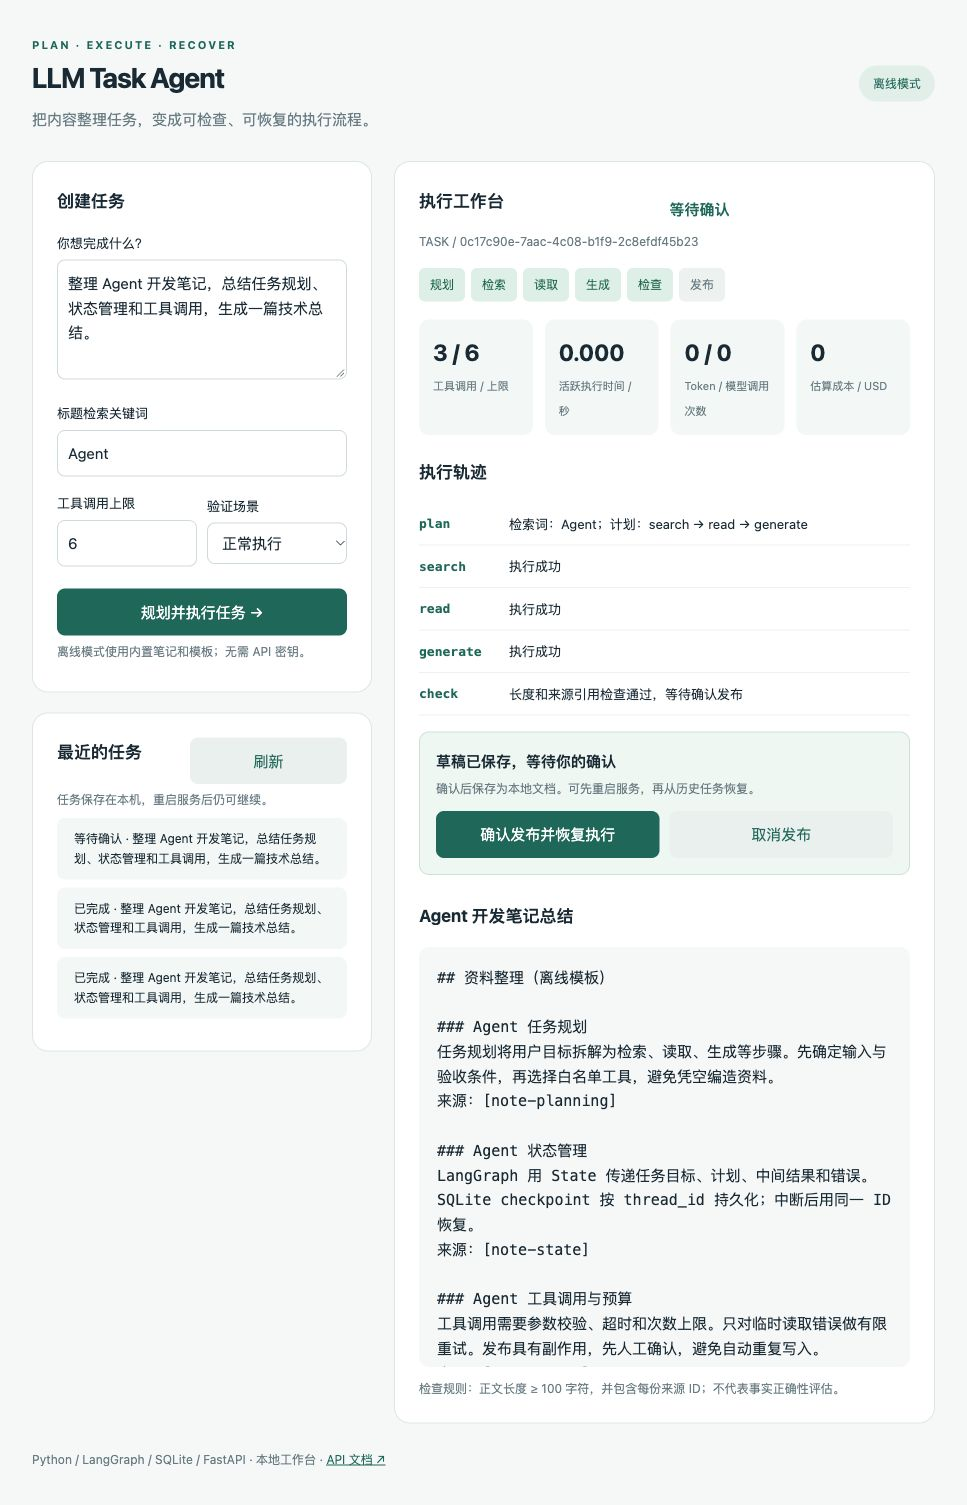
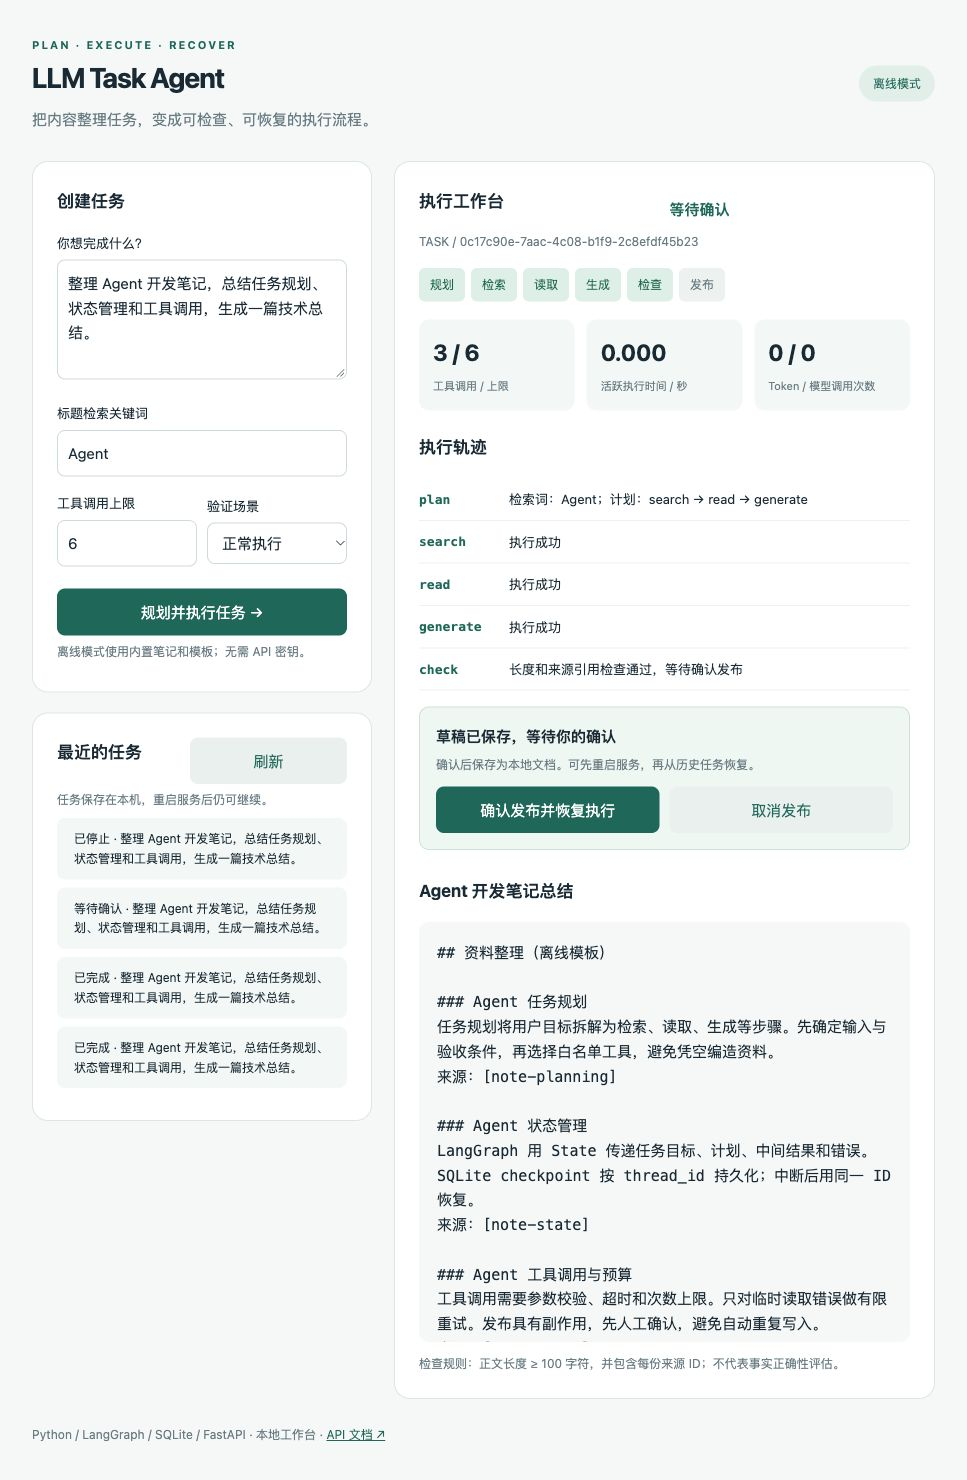
refactor: remove cost estimation and refresh workspace screenshots

diff --git a/app/static/index.html b/app/static/index.html
@@ -1,7 +1,7 @@
 <!doctype html>
 <html lang="zh-CN"><head><meta charset="utf-8"><meta name="viewport" content="width=device-width,initial-scale=1"><title>LLM Task Agent</title>
 <style>
-:root{color-scheme:light;--ink:#172b35;--muted:#677c83;--line:#dce5e6;--green:#146859}*{box-sizing:border-box}body{margin:0;background:#f5f8f7;color:var(--ink);font:15px/1.65 -apple-system,BlinkMacSystemFont,"Segoe UI",sans-serif}main{max-width:1280px;margin:auto;padding:36px 32px}header{display:flex;justify-content:space-between;align-items:center;margin-bottom:30px}h1{font-size:28px;letter-spacing:-1px;margin:0}h2{font-size:17px;margin:0 0 18px}.eyebrow{font-size:11px;letter-spacing:2px;color:var(--green);font-weight:700}p{color:var(--muted);margin:6px 0 0}.badge{padding:8px 14px;border-radius:30px;background:#e1efe9;color:var(--green);font-size:12px}.layout{display:grid;grid-template-columns:340px 1fr;gap:22px}.card{background:white;border:1px solid var(--line);border-radius:16px;padding:24px;margin-bottom:20px}.small{font-size:12px;color:var(--muted)}label{display:block;font-size:13px;margin:16px 0 6px}textarea,input,select{font:inherit;width:100%;border:1px solid #cddbdd;border-radius:8px;padding:10px;color:var(--ink);background:#fff}textarea{min-height:120px;resize:vertical}button{font:inherit;border:0;border-radius:8px;background:var(--green);color:white;padding:11px 17px;cursor:pointer}button:disabled{opacity:.5;cursor:wait}button.secondary{background:#eaf0ee;color:var(--green)}.start{width:100%;margin-top:22px}.row{display:flex;gap:10px;align-items:center}.row>*{flex:1}.metrics{display:grid;grid-template-columns:repeat(4,1fr);gap:12px;margin:18px 0 22px}.metric{padding:14px;background:#f3f7f5;border-radius:10px}.metric strong{display:block;font-size:23px}.metric span{font-size:11px;color:var(--muted)}.pipeline{display:flex;gap:6px;flex-wrap:wrap;margin:16px 0}.stage{font-size:12px;border-radius:6px;padding:7px 11px;background:#edf2f1;color:var(--muted)}.stage.done{background:#dcefe7;color:#16664d}.status{font-weight:600;color:var(--green)}.trace{padding:10px 0;border-bottom:1px solid #edf1ef;display:grid;grid-template-columns:80px 1fr;gap:10px;font-size:13px}.trace b{font-family:monospace;color:var(--green)}pre{white-space:pre-wrap;overflow-wrap:anywhere;font:14px/1.85 inherit;background:#f6f8f7;padding:18px;border-radius:10px;max-height:420px;overflow:auto;margin:12px 0}#error{color:#ac3d31;white-space:pre-wrap}.history{display:block;width:100%;text-align:left;color:var(--ink);background:#f3f7f5;font-size:12px;margin:8px 0;overflow-wrap:anywhere}.approval{background:#eef7f2;padding:16px;border:1px solid #cae3d5;border-radius:10px;margin-top:16px}.empty{text-align:center;padding:70px 20px;color:var(--muted)}a{color:var(--green)}[hidden]{display:none!important}#busy{font-size:13px;color:var(--green)}@media(max-width:850px){main{padding:22px 16px}.layout{grid-template-columns:1fr}.metrics{grid-template-columns:repeat(2,1fr)}header{align-items:flex-start;gap:10px}h1{font-size:23px}}
+:root{color-scheme:light;--ink:#172b35;--muted:#677c83;--line:#dce5e6;--green:#146859}*{box-sizing:border-box}body{margin:0;background:#f5f8f7;color:var(--ink);font:15px/1.65 -apple-system,BlinkMacSystemFont,"Segoe UI",sans-serif}main{max-width:1280px;margin:auto;padding:36px 32px}header{display:flex;justify-content:space-between;align-items:center;margin-bottom:30px}h1{font-size:28px;letter-spacing:-1px;margin:0}h2{font-size:17px;margin:0 0 18px}.eyebrow{font-size:11px;letter-spacing:2px;color:var(--green);font-weight:700}p{color:var(--muted);margin:6px 0 0}.badge{padding:8px 14px;border-radius:30px;background:#e1efe9;color:var(--green);font-size:12px}.layout{display:grid;grid-template-columns:340px 1fr;gap:22px}.card{background:white;border:1px solid var(--line);border-radius:16px;padding:24px;margin-bottom:20px}.small{font-size:12px;color:var(--muted)}label{display:block;font-size:13px;margin:16px 0 6px}textarea,input,select{font:inherit;width:100%;border:1px solid #cddbdd;border-radius:8px;padding:10px;color:var(--ink);background:#fff}textarea{min-height:120px;resize:vertical}button{font:inherit;border:0;border-radius:8px;background:var(--green);color:white;padding:11px 17px;cursor:pointer}button:disabled{opacity:.5;cursor:wait}button.secondary{background:#eaf0ee;color:var(--green)}.start{width:100%;margin-top:22px}.row{display:flex;gap:10px;align-items:center}.row>*{flex:1}.metrics{display:grid;grid-template-columns:repeat(3,1fr);gap:12px;margin:18px 0 22px}.metric{padding:14px;background:#f3f7f5;border-radius:10px}.metric strong{display:block;font-size:23px}.metric span{font-size:11px;color:var(--muted)}.pipeline{display:flex;gap:6px;flex-wrap:wrap;margin:16px 0}.stage{font-size:12px;border-radius:6px;padding:7px 11px;background:#edf2f1;color:var(--muted)}.stage.done{background:#dcefe7;color:#16664d}.status{font-weight:600;color:var(--green)}.trace{padding:10px 0;border-bottom:1px solid #edf1ef;display:grid;grid-template-columns:80px 1fr;gap:10px;font-size:13px}.trace b{font-family:monospace;color:var(--green)}pre{white-space:pre-wrap;overflow-wrap:anywhere;font:14px/1.85 inherit;background:#f6f8f7;padding:18px;border-radius:10px;max-height:420px;overflow:auto;margin:12px 0}#error{color:#ac3d31;white-space:pre-wrap}.history{display:block;width:100%;text-align:left;color:var(--ink);background:#f3f7f5;font-size:12px;margin:8px 0;overflow-wrap:anywhere}.approval{background:#eef7f2;padding:16px;border:1px solid #cae3d5;border-radius:10px;margin-top:16px}.empty{text-align:center;padding:70px 20px;color:var(--muted)}a{color:var(--green)}[hidden]{display:none!important}#busy{font-size:13px;color:var(--green)}@media(max-width:850px){main{padding:22px 16px}.layout{grid-template-columns:1fr}.metrics{grid-template-columns:repeat(2,1fr)}header{align-items:flex-start;gap:10px}h1{font-size:23px}}
 </style></head>
 <body><main>
 <header><div><div class="eyebrow">PLAN · EXECUTE · RECOVER</div><h1>LLM Task Agent</h1><p>把内容整理任务，变成可检查、可恢复的执行流程。</p></div><span class="badge" id="mode">正在连接服务…</span></header>
@@ -15,7 +15,7 @@
 <article class="card"><div class="row"><h2>执行工作台</h2><span class="status" id="status">等待任务</span></div>
 <div id="empty" class="empty">从左侧创建任务<br><span class="small">查看计划、执行轨迹和草稿，再确认发布。</span></div>
 <div id="result" hidden><div class="small" id="taskId"></div><div class="pipeline" id="pipeline"></div>
-<div class="metrics"><div class="metric"><strong id="calls">0</strong><span>工具调用 / 上限</span></div><div class="metric"><strong id="duration">0</strong><span>活跃执行时间 / 秒</span></div><div class="metric"><strong id="tokens">0</strong><span>Token / 模型调用次数</span></div><div class="metric"><strong id="cost">—</strong><span>估算成本 / USD</span></div></div>
+<div class="metrics"><div class="metric"><strong id="calls">0</strong><span>工具调用 / 上限</span></div><div class="metric"><strong id="duration">0</strong><span>活跃执行时间 / 秒</span></div><div class="metric"><strong id="tokens">0</strong><span>Token / 模型调用次数</span></div></div>
 <h2>执行轨迹</h2><div id="trace"></div><p id="taskError" role="alert" style="color:#ac3d31"></p>
 <div id="approval" class="approval" hidden><b>草稿已保存，等待你的确认</b><p class="small" id="destination"></p><div class="row" style="margin-top:12px"><button id="approve">确认发布并恢复执行</button><button class="secondary" id="cancel">取消发布</button></div></div>
 <h2 style="margin-top:26px" id="draftTitle">输出草稿</h2><pre id="draft"></pre><p id="published"></p><p class="small">检查规则：正文长度 ≥ 100 字符，并包含每份来源 ID；不代表事实正确性评估。</p></div></article></div>
@@ -25,7 +25,7 @@ const $=id=>document.getElementById(id);let current=null;let locked=false;
 const names={running:'执行中',repairing:'修正中',awaiting_approval:'等待确认',approved:'已确认',completed:'已完成',failed:'已停止',cancelled:'已取消'};
 async function api(path,options){const r=await fetch(path,options);const data=await r.json();if(!r.ok)throw Error(typeof data.detail==='string'?data.detail:JSON.stringify(data.detail));return data}
 async function action(fn){if(locked)return;locked=true;$('error').textContent='';$('busy').hidden=false;document.querySelectorAll('button').forEach(b=>b.disabled=true);try{await fn()}catch(e){$('error').textContent=e.message}finally{locked=false;$('busy').hidden=true;document.querySelectorAll('button').forEach(b=>b.disabled=false)}}
-function render(s){current=s.task_id;$('empty').hidden=true;$('result').hidden=false;$('taskId').textContent='TASK / '+s.task_id;$('status').textContent=names[s.status]||s.status;$('calls').textContent=`${s.tool_calls||0} / ${s.max_tool_calls||0}`;$('duration').textContent=(s.active_seconds||0).toFixed(3);$('tokens').textContent=`${(s.input_tokens||0)+(s.output_tokens||0)} / ${s.llm_calls||0}`;$('cost').textContent=s.estimated_cost_usd===null?'未配置':s.estimated_cost_usd===0?'0':s.estimated_cost_usd.toFixed(6);$('draft').textContent=s.draft||'尚未生成草稿';$('draftTitle').textContent=s.plan?.title||'输出草稿';$('taskError').textContent=s.error||'';
+function render(s){current=s.task_id;$('empty').hidden=true;$('result').hidden=false;$('taskId').textContent='TASK / '+s.task_id;$('status').textContent=names[s.status]||s.status;$('calls').textContent=`${s.tool_calls||0} / ${s.max_tool_calls||0}`;$('duration').textContent=(s.active_seconds||0).toFixed(3);$('tokens').textContent=`${(s.input_tokens||0)+(s.output_tokens||0)} / ${s.llm_calls||0}`;$('draft').textContent=s.draft||'尚未生成草稿';$('draftTitle').textContent=s.plan?.title||'输出草稿';$('taskError').textContent=s.error||'';
 $('trace').replaceChildren();for(const t of s.trace||[]){const el=document.createElement('div');el.className='trace';const b=document.createElement('b');b.textContent=t.node;const span=document.createElement('span');span.textContent=t.detail;el.append(b,span);$('trace').append(el)}
 $('pipeline').replaceChildren();for(const [n,label] of [['plan','规划'],['search','检索'],['read','读取'],['generate','生成'],['check','检查'],['publish','发布']]){const el=document.createElement('span');el.className='stage'+((s.trace||[]).some(t=>t.node===n&&(/成功|通过|已保存|检索词/.test(t.detail)))?' done':'');el.textContent=label;$('pipeline').append(el)}
 $('approval').hidden=s.status!=='awaiting_approval';$('destination').textContent=s.mode==='demo'?'确认后保存为本地文档。可先重启服务，再从历史任务恢复。':'确认后将真实写入配置的 Notion 父页面。';$('published').replaceChildren();if(s.publication){$('published').textContent='已保存到 '+s.publication.destination;if(s.publication.url&&s.publication.url.startsWith('https://')){const a=document.createElement('a');a.href=s.publication.url;a.textContent=' · 打开页面 ↗';a.target='_blank';a.rel='noopener';$('published').append(a)}}}

diff --git a/app/agent.py b/app/agent.py
@@ -201,12 +201,7 @@ class Agent:
             if not self.db.execute('SELECT 1 FROM tasks WHERE id=?', (task_id,)).fetchone():
                 raise KeyError(task_id)
             state = dict(self.graph.get_state(self.config(task_id)).values)
-            rates_set = self.settings.input_price > 0 and self.settings.output_price > 0
             state['mode'] = self.settings.mode
-            state['estimated_cost_usd'] = (0.0 if self.settings.mode == 'demo' else
-                round((state.get('input_tokens', 0) * self.settings.input_price +
-                       state.get('output_tokens', 0) * self.settings.output_price) / 1_000_000, 8)
-                if rates_set and state.get('usage_known') else None)
             return state
 
     def resume(self, task_id, approved):

diff --git a/tests/test_live_contract.py b/tests/test_live_contract.py
@@ -10,7 +10,7 @@ from app.config import Settings
 def test_live_workflow_with_fake_http(tmp_path):
     agent = Agent(Settings(mode='live', db_path=str(tmp_path / 'live.sqlite'),
         llm_api_key='test-only', llm_model='test-model', notion_token='test-only',
-        notion_parent_id='parent', input_price=1, output_price=2))
+        notion_parent_id='parent'))
     requests = []
 
     def handler(request):
@@ -45,7 +45,6 @@ def test_live_workflow_with_fake_http(tmp_path):
         assert result['status'] == 'completed'
         assert result['llm_calls'] == 2
         assert result['input_tokens'] == 200
-        assert result['estimated_cost_usd'] == 0.0004
         assert sum(r.url.path == '/v1/pages' for r in requests) == 1
     finally:
         agent.close()

diff --git a/app/config.py b/app/config.py
@@ -17,8 +17,6 @@ class Settings:
     llm_model: str = ''
     notion_token: str = ''
     notion_parent_id: str = ''
-    input_price: float = 0.0
-    output_price: float = 0.0
 
     @classmethod
     def from_env(cls):
@@ -30,8 +28,6 @@ class Settings:
             llm_model=os.getenv('LLM_MODEL', ''),
             notion_token=os.getenv('NOTION_TOKEN', ''),
             notion_parent_id=os.getenv('NOTION_PARENT_PAGE_ID', ''),
-            input_price=float(os.getenv('INPUT_PRICE_PER_MILLION', '0')),
-            output_price=float(os.getenv('OUTPUT_PRICE_PER_MILLION', '0')),
         )
         if settings.mode not in ('demo', 'live'):
             raise ValueError('AGENT_MODE 必须为 demo 或 live')

diff --git a/evaluation/run.py b/evaluation/run.py
@@ -28,7 +28,7 @@ def main():
                     'seconds': round(time.perf_counter() - start, 6),
                     'tool_calls': result['tool_calls'], 'llm_calls': result['llm_calls'],
                     'tokens': result['input_tokens'] + result['output_tokens'],
-                    'estimated_cost_usd': result['estimated_cost_usd'], 'error': result['error']})
+                    'error': result['error']})
         finally:
             agent.close()
     report = {'generated_at': datetime.now(timezone.utc).isoformat(), 'mode': 'demo',

diff --git a/README.md b/README.md
@@ -11,7 +11,7 @@
 ![LLM Task Agent 工作台：任务完成后的执行轨迹、调用指标与来源草稿](evaluation/demo-preview.jpg)
 
 - **执行轨迹**：逐步展示规划、检索、读取、生成、检查和发布，便于定位失败环节。
-- **调用指标**：查看工具调用次数与上限、活跃执行耗时、Token 与模型调用量。离线模式不调用模型，因此 Token 与模型成本为 0。
+- **调用指标**：查看工具调用次数与上限、活跃执行耗时、Token 与模型调用量。离线模式不调用模型，因此 Token 与模型调用量为 0。
 - **来源草稿**：查看整理结果及来源 ID，再决定是否发布。
 
 ## 快速运行
@@ -72,7 +72,7 @@ python -m uvicorn app.main:app --host 127.0.0.1 --port 8000
 | 中断与恢复 | 发布前调用 interrupt；重启后以同一 task_id 和 Command(resume=...) 继续执行，已完成的检索与生成不会重跑 |
 | 失败处理 | 临时读取/生成错误最多重试一次；正文与引用不合格最多修正一次；总工具调用次数有上限 |
 | 发布 | 用户确认后写入本地文档或 Notion 普通父页面下的新子页面 |
-| 可观测性 | 执行轨迹、逻辑工具调用数、模型请求数、Token、活跃耗时、可配置单价的成本估算 |
+| 可观测性 | 执行轨迹、逻辑工具调用数、模型请求数、Token、活跃耗时 |
 | 服务与部署 | FastAPI API、本地网页、Dockerfile 和 Compose；Docker 构建未在本次环境验证 |
 | 评测 | 6 个离线固定场景、12 项自动化测试；结果保存在 evaluation/results.json |
 
@@ -106,7 +106,7 @@ NOTION_PARENT_PAGE_ID=普通父页面ID
 
 LLM 接口需兼容 Chat Completions 和 `tool_choice`。在 Notion 中将源页面与目标父页面授权给该集成，提供读取与创建内容权限。标题关键词应尽量简短。只会在页面中确认发布后创建新子页面；正文作为纯文本段落写入，不做 Markdown 富文本转换。
 
-真实模式不会失败后悄悄降级为离线模式。没有配置每百万 Token 单价，或服务商未返回完整 usage 时，成本显示为“未配置”，而不是 0。成本是按成功返回的 usage 估算，不是账单数据。
+真实模式不会失败后悄悄降级为离线模式。模型调用次数与 Token 用量随任务状态返回；Token 数据取自服务商响应中的 usage。
 
 本版本的 Notion 检索最多返回 3 页；每页只读取前 100 个顶层块，正文最多保留 12000 字符，不递归读取子块。API 版本固定为 `2022-06-28`，面向普通页面；不支持 database/data source 属性映射。资料对象中的 `truncated` 标记说明分页或子块可能未读取。
 

diff --git a/DEMO_GUIDE.md b/DEMO_GUIDE.md
@@ -24,7 +24,7 @@
 
 ### 评测
 
-展示 evaluation/results.json：6 个固定场景包含 3 个正向任务和 3 个预期失败任务。场景通过率衡量是否符合预期，不等于模型任务完成率；离线场景没有 LLM 调用成本。
+展示 evaluation/results.json：6 个固定场景包含 3 个正向任务和 3 个预期失败任务。场景通过率衡量是否符合预期，不等于模型任务完成率；离线场景不调用 LLM。
 
 ## 常见追问
 
@@ -56,4 +56,4 @@
 
 基于 Python、LangGraph、FastAPI 与 SQLite 实现内容整理 Agent 原型，围绕资料检索、读取、草稿生成、结果检查及确认发布构建多步骤工作流；实现发布前状态持久化与中断恢复、有限重试、一次草稿修正和工具调用预算。提供可视化演示页面、RESTful API、LLM / Notion 适配器与 Docker 配置，通过 12 项自动化测试和 6 个离线固定场景验证。真实 LLM / Notion 账号联调及模型效果评测待完成。
 
-没有测过的完成率提升、耗时优化和成本下降，不写成项目成果。Docker 配置尚未构建验证，也不表述为已经部署上线。
+没有测过的完成率提升和耗时优化，不写成项目成果。Docker 配置尚未构建验证，也不表述为已经部署上线。
